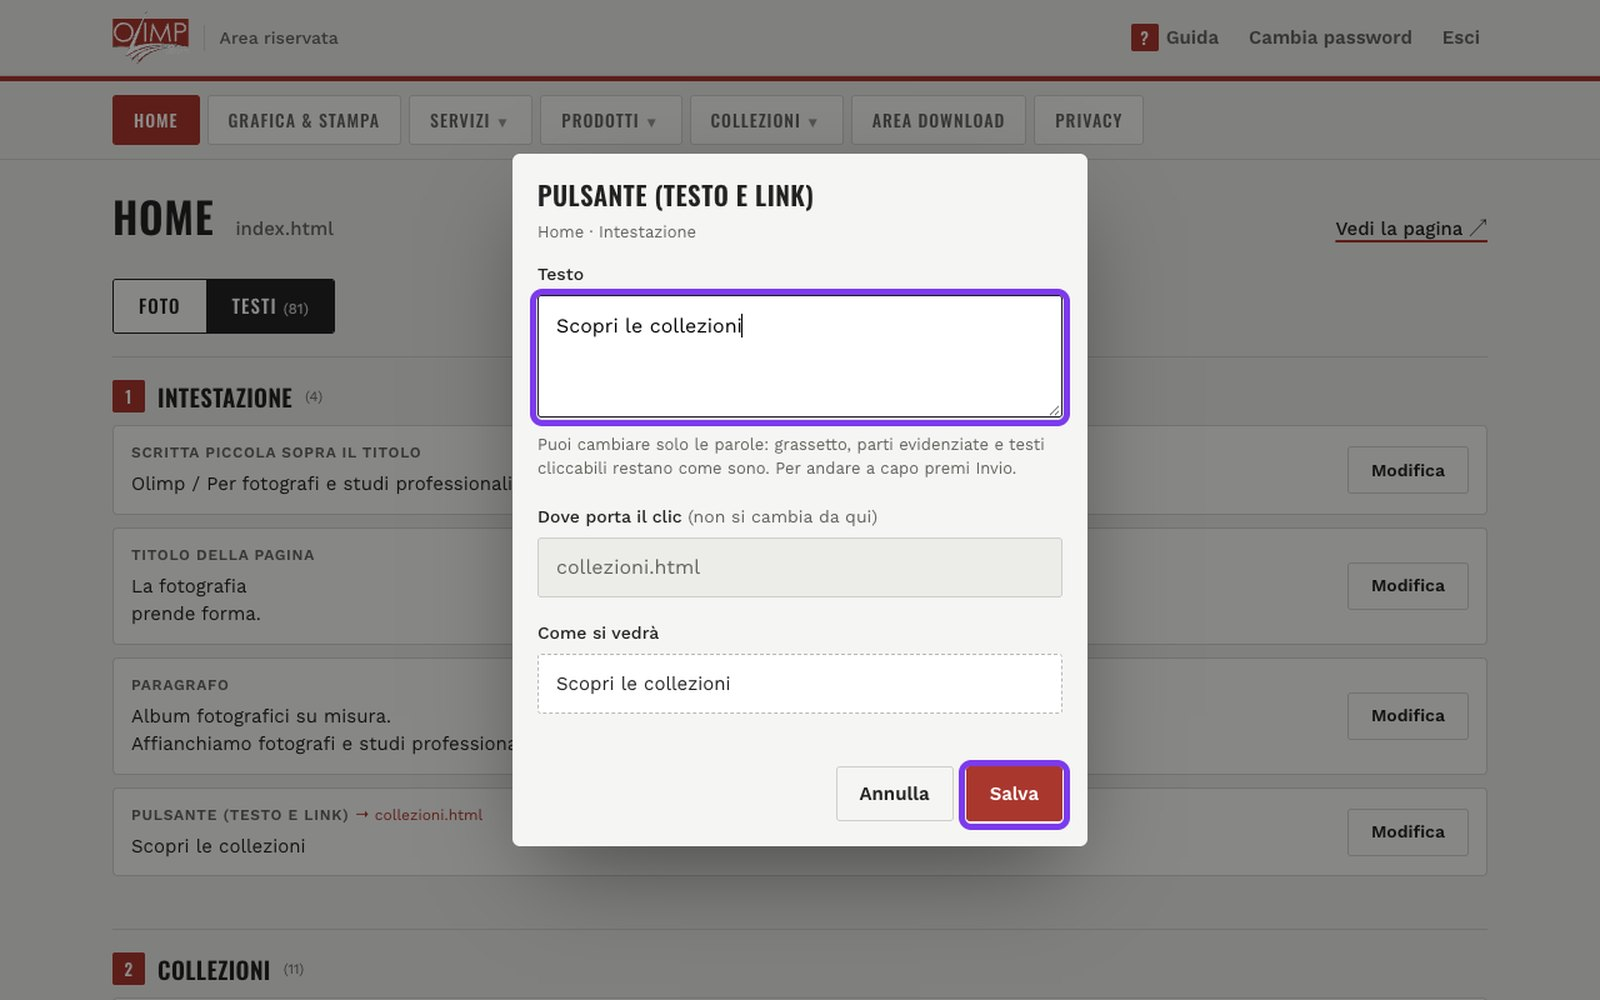
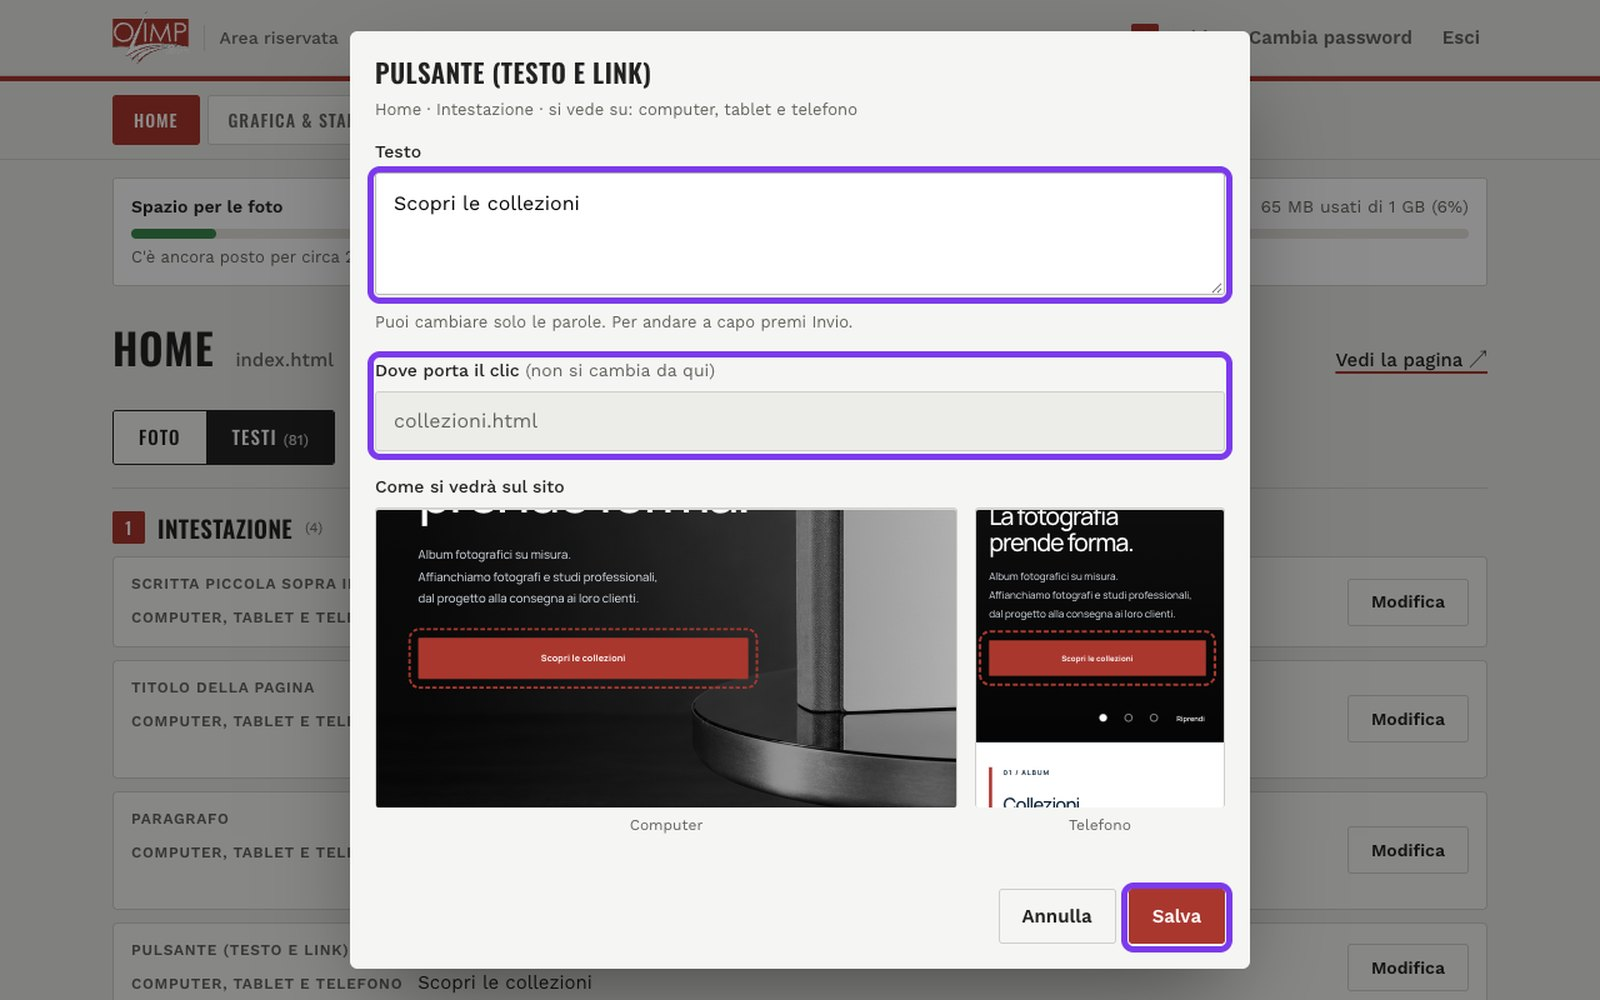
Area riservata: anteprima dei testi come sul sito (computer e telefono), come inkubo 6.24-6.25; frase d'aiuto semplificata; schermate della guida dei testi rifatte; versione 3.33 nel LEGGIMI
Nessuna pagina riallineata dal generatore. CLAUDE.md: nome della skill area-ris.

diff --git a/area-riservata.html b/area-riservata.html
@@ -403,6 +403,19 @@ input[type=text],input[type=password]{border-radius:3px;background:#fff;border-c
 .anteprima-testo.grande{display:block;-webkit-line-clamp:none;max-height:30svh;overflow:auto;padding:12px 14px;background:#fff;border:1px dashed #b9b9b3;border-radius:3px;margin-bottom:12px}
 .anteprima-testo .vuoto{color:var(--mute)}
 .etichetta-ant{font-size:14px;font-weight:500;margin-bottom:6px}
+/* testi: anteprima come sul sito, sul computer e sul telefono (come per le foto): la pagina vera
+   in piccolo, con il testo nuovo al suo posto e contornato, centrata sul testo */
+#d-testo{width:min(720px,100% - 24px)}
+.viste-testo{display:flex;flex-wrap:wrap;gap:14px;align-items:flex-start;margin-bottom:12px}
+.viste-testo[hidden]{display:none}
+.viste-testo figure{margin:0;flex:1 1 300px;min-width:0}
+.viste-testo figure.tel{flex:0 0 200px;margin:0 auto}
+.vt-fin{position:relative;height:240px;overflow:hidden;border:1px solid var(--line);border-radius:3px;background:var(--paper)}
+.vt-fin iframe{position:absolute;left:0;top:0;border:0;transform-origin:0 0;pointer-events:none;visibility:hidden}
+.vt-fin.pronta iframe{visibility:visible}
+.vt-msg{position:absolute;inset:0;display:grid;place-items:center;padding:14px;text-align:center;font-size:13px;line-height:1.4;color:var(--mute)}
+.vt-fin.pronta .vt-msg{display:none}
+.viste-testo figcaption{font-size:12px;color:var(--mute);margin-top:5px;text-align:center}
 #d-testo textarea{width:100%;min-height:52px;padding:12px 14px;border:1px solid #b9b9b3;border-radius:3px;background:#fff;font:16px/1.5 var(--testo);resize:vertical}
 #d-testo textarea:focus{outline:none;border-color:var(--ink);box-shadow:0 0 0 3px rgba(0,0,0,.08)}
 #d-testo .parte+.parte,.testi-foto .parte+.parte{margin-top:8px}
@@ -529,15 +542,19 @@ input[type=text],input[type=password]{border-radius:3px;background:#fff;border-c
     <div class="campo">
       <p class="etichetta-ant" id="tx-etichetta">Testo</p>
       <div id="tx-parti"></div>
-      <p class="aiuto" id="tx-aiuto">Puoi cambiare solo le parole: grassetto, parti evidenziate e testi cliccabili restano come sono. Per andare a capo premi Invio.</p>
+      <p class="aiuto" id="tx-aiuto">Puoi cambiare solo le parole. Per andare a capo premi Invio.</p>
       <p class="aiuto" id="tx-aiuto-semplice" hidden>Qui va solo il testo, su una riga: le parti fisse accanto (icone, frecce, numeri) restano come sono.</p>
     </div>
     <div class="campo" id="tx-campo-link" hidden>
       <label for="tx-link">Dove porta il clic <span class="facoltativo">(non si cambia da qui)</span></label>
       <input type="text" id="tx-link" readonly tabindex="-1">
     </div>
-    <p class="etichetta-ant" id="tx-ant-et">Come si vedrà</p>
-    <div class="anteprima-testo grande" id="tx-ant" aria-live="polite"></div>
+    <p class="etichetta-ant" id="tx-ant-et">Come si vedrà sul sito</p>
+    <div class="viste-testo" id="tx-viste" aria-hidden="true">
+      <figure class="pc"><div class="vt-fin"><span class="vt-msg">Preparazione dell'anteprima…</span></div><figcaption>Computer</figcaption></figure>
+      <figure class="tel"><div class="vt-fin"><span class="vt-msg">Preparazione dell'anteprima…</span></div><figcaption>Telefono</figcaption></figure>
+    </div>
+    <div class="anteprima-testo grande" id="tx-ant" aria-live="polite" hidden></div>
     <p class="errore" id="err-tx" role="alert"></p>
     <div class="azioni">
       <button class="btn" type="button" id="tx-annulla">Annulla</button>
@@ -654,8 +671,8 @@ input[type=text],input[type=password]{border-radius:3px;background:#fff;border-c
     <section class="g-sez" id="g-testi" aria-labelledby="g-testi-t">
       <h3 id="g-testi-t">Cambiare i testi</h3>
       <div class="g-passo"><span class="num">1</span><p>Nella pagina clicca <b>Testi</b> (accanto a Foto). I testi sono divisi per sezione, nell'ordine in cui si vedono sul sito: clicca quello da cambiare.</p><a href="images/guida/testi.jpg" class="g-zoom" data-punti="12.42,27.25,8.91,6.75;6.56,65.00,86.88,13.25" aria-label="Ingrandisci la schermata"><img src="images/guida/testi.jpg" alt="Il pulsante Testi e l'elenco dei testi della Home divisi per sezione" width="1600" height="1000" loading="lazy" decoding="async"></a></div>
-      <div class="g-passo"><span class="num">2</span><p>Scrivi il testo nuovo (per andare a capo premi Invio). Si cambiano solo le parole: se nel testo ci sono parti in grassetto o cliccabili, ognuna ha il suo campo e resta com'è. Sotto vedi come si vedrà; poi clicca <b>Salva</b>.</p><a href="images/guida/testo-modifica.jpg" class="g-zoom" data-punti="33.12,31.87,33.75,13.75;59.92,73.00,6.95,7.00" aria-label="Ingrandisci la schermata"><img src="images/guida/testo-modifica.jpg" alt="La finestra del testo con il campo da scrivere, l'anteprima e il pulsante Salva" width="1600" height="1000" loading="lazy" decoding="async"></a></div>
-      <div class="g-passo"><span class="num">3</span><p>Nei pulsanti e nei testi cliccabili cambi le parole; sotto vedi anche <b>Dove porta il clic</b>, che invece resta com'è.</p><a href="images/guida/testo-link.jpg" class="g-zoom" data-punti="33.12,28.88,33.75,13.75;59.92,76.00,6.95,7.00" aria-label="Ingrandisci la schermata"><img src="images/guida/testo-link.jpg" alt="La finestra di un pulsante con il testo da cambiare, il campo Dove porta il clic in grigio e il pulsante Salva" width="1600" height="1000" loading="lazy" decoding="async"></a></div>
+      <div class="g-passo"><span class="num">2</span><p>Scrivi il testo nuovo (per andare a capo premi Invio). Si cambiano solo le parole: se nel testo ci sono parti in grassetto o cliccabili, ognuna ha il suo campo e resta com'è. Sotto vedi, mentre scrivi, <b>come si vedrà sul sito</b>: a sinistra sul <b>computer</b>, a destra sul <b>telefono</b>, con il testo contornato di rosso al suo posto nella pagina; poi clicca <b>Salva</b>.</p><a href="images/guida/testo-modifica.jpg" class="g-zoom" data-punti="22.97,22.38,54.06,13.75;22.97,44.25,54.06,34.38;70.08,82.38,6.95,7.00" aria-label="Ingrandisci la schermata"><img src="images/guida/testo-modifica.jpg" alt="La finestra del testo con il campo da scrivere, l'anteprima come sul sito per computer e telefono e il pulsante Salva" width="1600" height="1000" loading="lazy" decoding="async"></a></div>
+      <div class="g-passo"><span class="num">3</span><p>Nei pulsanti e nei testi cliccabili cambi le parole; sotto vedi anche <b>Dove porta il clic</b>, che invece resta com'è.</p><a href="images/guida/testo-link.jpg" class="g-zoom" data-punti="22.97,16.62,54.06,13.75;22.97,35.12,54.06,10.88;70.08,88.25,6.95,7.00" aria-label="Ingrandisci la schermata"><img src="images/guida/testo-link.jpg" alt="La finestra di un pulsante con il testo da cambiare, il campo Dove porta il clic in grigio e il pulsante Salva" width="1600" height="1000" loading="lazy" decoding="async"></a></div>
       <p class="g-nota">Ogni testo delle pagine è uno solo e si vede uguale su computer, tablet e telefono (cambia solo come è impaginato): nella scheda c'è scritto «Computer, tablet e telefono». Solo nel <b>Menu</b> ci sono scritte diverse per il computer e per tablet e telefono.</p>
       <p class="g-nota">Alcuni testi hanno accanto parti fisse (frecce, numeri, icone, i campi del modulo contatti): lì si cambia solo il testo, su una riga. Le voci principali del menu in alto (Servizi, Prodotti, Collezioni…), il piè di pagina e i numeri animati della Home («57 anni», «oltre 100», «oltre 30.000») non si cambiano da qui: per quelli chiedi a chi cura il sito.</p>
     </section>
@@ -1834,7 +1851,7 @@ input[type=text],input[type=password]{border-radius:3px;background:#fff;border-c
     $('tx-t').textContent = g.titolo;
     $('tx-dove').textContent = 'Menu · vale per tutte le pagine del sito';
     $('tx-etichetta').hidden = true; $('tx-aiuto').hidden = true; $('tx-aiuto-semplice').hidden = true;
-    $('tx-campo-link').hidden = true; $('tx-ant-et').hidden = true; $('tx-ant').hidden = true;
+    $('tx-campo-link').hidden = true; $('tx-ant-et').hidden = true; $('tx-ant').hidden = true; $('tx-viste').hidden = true;
     var box = $('tx-parti'); box.innerHTML = '';
     g.eds = g.voci.map(function (v, k) {
       var c = document.createElement('div'); c.className = 'coppia-campo';
@@ -1853,7 +1870,7 @@ input[type=text],input[type=password]{border-radius:3px;background:#fff;border-c
   function apriTesto(id) {
     if (COPPIE[id]) { apriCoppia(COPPIE[id]); return; }
     txCoppia = null;
-    $('tx-etichetta').hidden = false; $('tx-ant-et').hidden = false; $('tx-ant').hidden = false;
+    $('tx-etichetta').hidden = false; $('tx-ant-et').hidden = false; $('tx-ant').hidden = true; $('tx-viste').hidden = false;
     txAperto = testi.filter(function (v) { return v.id === id; })[0]; if (!txAperto) return;
     var semplice = txAperto.tipo === 'semplice', link = 'link' in txAperto;
     $('tx-t').textContent = txAperto.descrizione;
@@ -1865,12 +1882,107 @@ input[type=text],input[type=password]{border-radius:3px;background:#fff;border-c
     $('tx-campo-link').hidden = !link; $('tx-link').value = link ? txAperto.link : '';
     $('err-tx').textContent = ''; anteprimaTesto();
     dtx.showModal(); txEd.primo.focus();
+    vtApri(txAperto);
   }
   function anteprimaTesto() {
     if (txCoppia || !txAperto || !txEd) return;
     var r = txEd.valore();
     $('tx-ant').innerHTML = r.testo ? htmlTesto(r.testo, txAperto.tipo !== 'semplice' && !('link' in txAperto)) : '<span class="vuoto">(vuoto)</span>';
+    clearTimeout(vtT); vtT = setTimeout(vtAggiorna, 120);
   }
+
+  /* ---------- testi: anteprima come sul sito, sul computer e sul telefono (come per le foto) ----------
+     La pagina vera si apre in due finestre, larga 1440 px (Computer) e 390 px (Telefono), rimpicciolite
+     nella scheda: il testo che si scrive prende il posto di quello del sito (con le stesse regole del
+     generatore), è contornato e la vista si centra su di lui. Le finestre restano aperte finché si
+     modificano testi della stessa pagina, così l'anteprima della volta dopo è subito pronta. */
+  var vtFin = [].slice.call(document.querySelectorAll('#tx-viste .vt-fin')), vtStato = [], vtT = 0, vtVoce = null;
+  var VT_ALTO = [900, 844];
+  function vtMsg(k, t, guasto) { var f = vtFin[k]; f.classList.remove('pronta'); f.querySelector('.vt-msg').textContent = t; if (vtStato[k]) vtStato[k].guasto = !!guasto; vtRiserva(); }
+  function vtPagina(k, pagina) { // apre (o riusa) la pagina vera nella finestra k
+    var c = vtStato[k];
+    if (c && c.pagina === pagina) return c.pronta;
+    if (c) c.f.remove();
+    var f = document.createElement('iframe');
+    f.tabIndex = -1; f.setAttribute('aria-hidden', 'true'); f.title = 'Anteprima';
+    f.style.width = VISTE[k].w + 'px'; f.style.height = VT_ALTO[k] + 'px';
+    c = vtStato[k] = { pagina: pagina, f: f, el: null };
+    c.pronta = new Promise(function (ok) {
+      var fatto = false;
+      function fine(d) { if (fatto) return; fatto = true; if (!d) c.pagina = null; ok(d); }
+      setTimeout(function () { fine(null); }, 20000);
+      f.onload = function () {
+        try {
+          var d = f.contentDocument, st = d.createElement('style');
+          // niente animazioni d'entrata, niente barra dei cookie, scorrimento immediato
+          st.textContent = 'html{scroll-behavior:auto!important}#ck-banner{display:none!important}.fx,.fx>.fxi,.hero-slides{opacity:1!important;transform:none!important;transition:none!important}';
+          d.head.appendChild(st);
+          d.documentElement.classList.remove('fx-pre', 'fx-on'); // effetto «Sipario» spento: tutto subito al suo posto
+          [].forEach.call(d.querySelectorAll('.fx'), function (e) { e.classList.add('in', 'fx-done'); });
+          [].forEach.call(d.querySelectorAll('video'), function (v) { try { v.autoplay = false; v.pause(); } catch (er) {} });
+          setTimeout(function () { fine(d); }, 300);
+        } catch (er) { fine(null); }
+      };
+    });
+    f.src = new URL(pagina, location.href).href;
+    vtFin[k].appendChild(f);
+    return c.pronta;
+  }
+  function vtApri(v) {
+    vtVoce = v;
+    vtFin.forEach(function (fin, k) {
+      if (vtStato[k]) vtStato[k].guasto = false;
+      vtMsg(k, 'Preparazione dell\'anteprima…');
+      vtPagina(k, v.pagina === MENU ? 'index.html' : v.pagina).then(function (d) { // menu: uguale in tutte le pagine, si mostra sulla Home
+        if (vtVoce !== v || !dtx.open) return;
+        var c = vtStato[k];
+        if (c.el) { c.el.innerHTML = c.el._vtOrig; c.el.style.outline = ''; c.el.style.outlineOffset = ''; c.el = null; }
+        (c.aperti || []).forEach(function (e) { e.classList.remove('open'); }); c.aperti = [];
+        var el = d && d.querySelector('[data-testo="' + v.id + '"]');
+        if (!el) { vtMsg(k, d ? 'Questo testo non si trova nella pagina.' : 'Anteprima non disponibile: controlla la connessione.', true); return; }
+        if (el._vtOrig == null) el._vtOrig = el.innerHTML;
+        for (var p = el; p; p = p.parentElement) if (p.tagName === 'DETAILS') p.open = true; // domande chiuse: si aprono
+        // voci dei sottomenu della navbar: si apre il menu (sul telefono) e il sottomenu, come toccandoli
+        for (p = el.parentElement; p; p = p.parentElement) if ((p.id === 'nav' && k) || (p.classList.contains('dd') && p.closest('#nav'))) { p.classList.add('open'); c.aperti.push(p); }
+        c.el = el; vtScrivi(k);
+        if (d.fonts && d.fonts.ready) d.fonts.ready.then(function () { vtCentra(k); });
+        setTimeout(function () { vtCentra(k); }, 800); // foto e caratteri arrivati
+      });
+    });
+  }
+  function vtRiserva() { // se nessuna delle due finestre funziona resta l'anteprima semplice di prima
+    $('tx-ant').hidden = !(vtStato.length === vtFin.length && vtStato.every(function (c) { return c && c.guasto; }));
+  }
+  function vtTesto() { var r = txEd && txEd.valore(); return r && r.testo != null ? r.testo : null; }
+  function vtScrivi(k) {
+    var c = vtStato[k]; if (!c || !c.el || !vtVoce) return;
+    var el = c.el, t = vtTesto(); if (t == null) return; // con un errore (es. simboli tolti) resta l'ultima versione giusta
+    if (vtVoce.tipo === 'semplice') { // come il generatore: cambia solo il pezzo di testo diretto, le parti fisse restano
+      el.innerHTML = el._vtOrig;
+      var n = [].filter.call(el.childNodes, function (x) { return x.nodeType === 3 && x.nodeValue.trim(); });
+      if (n.length === 1) { var m = n[0].nodeValue.match(/^(\s*)[\s\S]*?(\s*)$/); n[0].nodeValue = m[1] + t.replace(/\s+/g, ' ') + m[2]; }
+    } else el.innerHTML = htmlTesto(t, el.tagName !== 'A');
+    vtCentra(k);
+  }
+  function vtAggiorna() { if (dtx.open && !txCoppia) vtFin.forEach(function (f, k) { vtScrivi(k); }); }
+  function vtCentra(k) {
+    var c = vtStato[k], fin = vtFin[k]; if (!c || !c.el || !dtx.open) return;
+    var w = c.f.contentWindow, el = c.el, W = fin.clientWidth, H = fin.clientHeight, vw = VISTE[k].w, vh = VT_ALTO[k];
+    var r = el.getBoundingClientRect();
+    if (!W || !H) return;
+    if (!r.width || !r.height) { vtMsg(k, 'Su questo schermo questo testo non si vede.'); return; }
+    w.scrollTo(0, Math.max(0, r.top + w.scrollY + r.height / 2 - vh / 2)); r = el.getBoundingClientRect();
+    // telefono: tutta la larghezza; computer: abbastanza vicino da leggere il testo, mai oltre la grandezza vera
+    var s = k ? W / vw : Math.max(W / vw, Math.min(.6, W / (r.width + 80)));
+    var x = Math.min(0, Math.max(W - vw * s, W / 2 - (r.left + r.width / 2) * s));
+    var y = r.height * s > H - 24 ? 12 - r.top * s : H / 2 - (r.top + r.height / 2) * s;
+    y = Math.min(0, Math.max(H - vh * s, y));
+    el.style.outline = Math.max(2, Math.round(2 / s)) + 'px dashed ' + (getComputedStyle(document.documentElement).getPropertyValue('--acc').trim() || '#c4372a');
+    el.style.outlineOffset = Math.round(6 / s) + 'px';
+    c.f.style.transform = 'translate(' + x + 'px,' + y + 'px) scale(' + s + ')';
+    fin.classList.add('pronta'); c.guasto = false; vtRiserva();
+  }
+  window.addEventListener('resize', function () { if (dtx.open) vtFin.forEach(function (f, k) { vtCentra(k); }); });
   $('tx-annulla').onclick = function () { dtx.close(); };
   $('f-testo').onsubmit = function (e) {
     e.preventDefault();

diff --git a/CLAUDE.md b/CLAUDE.md
@@ -18,7 +18,7 @@ Dettagli completi in **LEGGIMI.txt**: leggilo prima di modifiche non banali.
 - Il cliente salva `data/testi.json`, `data/immagini.json`, `data/gallerie.json` dall'area riservata (`area-riservata.html` + Worker in `worker/`): fai sempre `git pull` prima di lavorare.
 - Testi con `data-testo`, foto con `data-slot` e gallerie si cambiano nei JSON, **non nell'HTML**: il generatore li riscrive.
 - Ogni foto/video/testo è indipendente: modificare una sezione non deve mai toccare altre sezioni o pagine (unica eccezione: i sottomenu della navbar).
-- È il modello della skill `crea-area-riservata` e della mappa «Dove siamo» (`mappa-uni`; transizioni centrate come Rain Ink 6.17 dalla versione 3.32): una miglioria qui va riportata anche nelle skill e, se serve, in inkubo.
+- È il modello della skill `area-ris` e della mappa «Dove siamo» (`mappa-uni`; transizioni centrate come Rain Ink 6.17 dalla versione 3.32): una miglioria qui va riportata anche nelle skill e, se serve, in inkubo.
 
 ## Foto del cliente
 - Foto in `images/<nome-pagina>/`, nomi minuscoli col nome del modello (es. `modello-frame.jpg`), ridotte a 1600 px qualità 80 (`sips`); mai inventare nomi di modelli.
